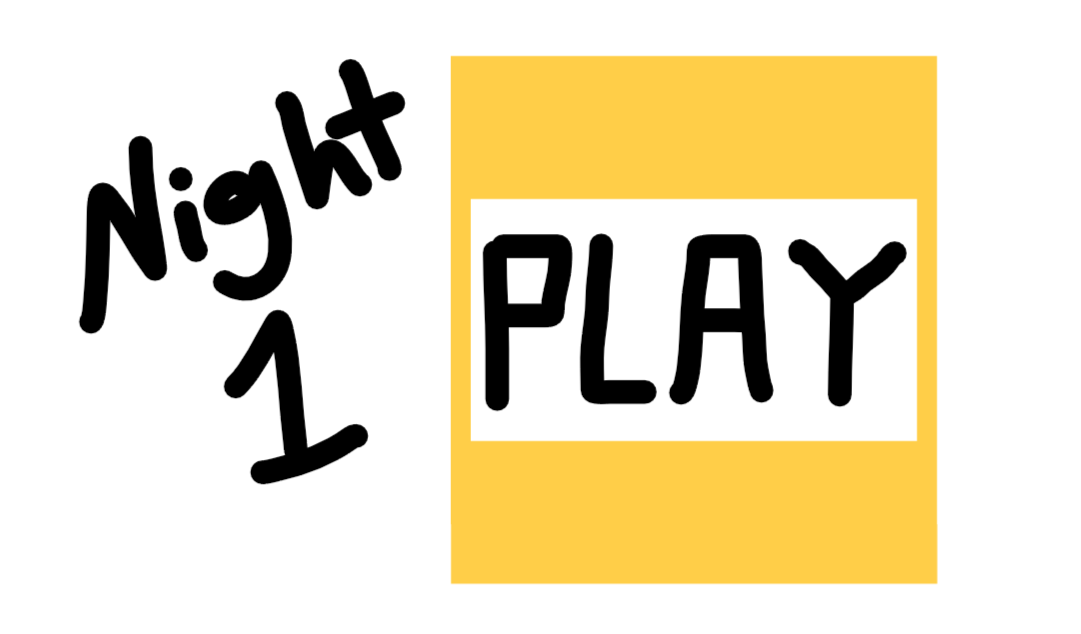
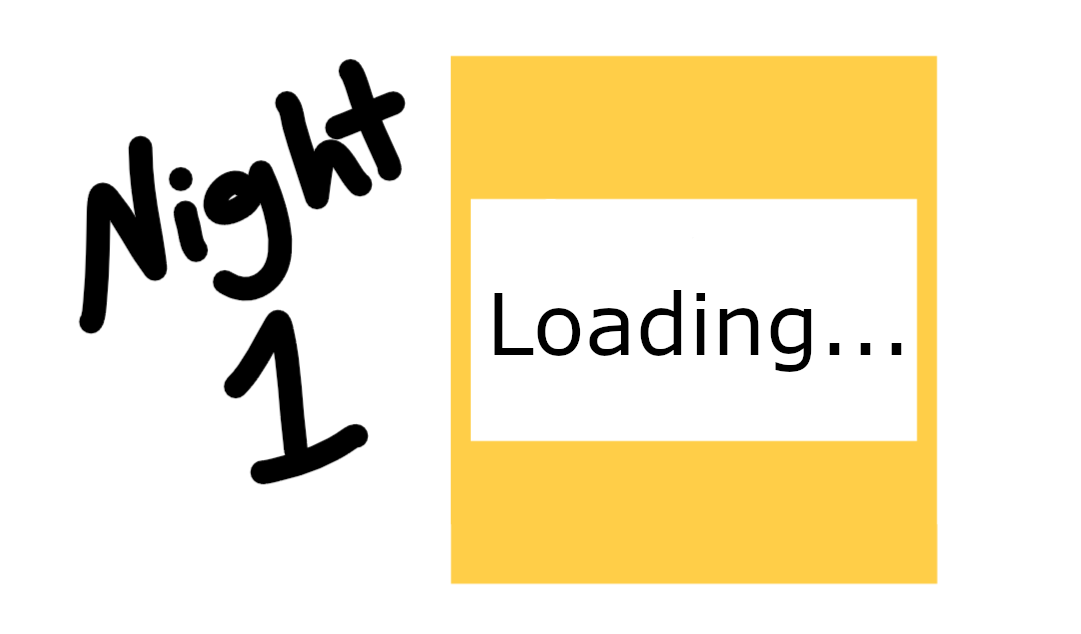
added new home/load screens

Changed region(s): [[0.4274, 0.3596, 0.8548, 0.6593]]

diff --git a/game.py b/game.py
@@ -19,47 +19,62 @@ pygame.display.set_caption("Power Outage")
 
 # Objects and backgrounds
 # home_night = night_select() # - commented out for now
-HOME_image = pygame.image.load(os.path.join('assets', 'PO_night1.PNG')).convert() #adding image ****this line will be changed, PO_night1.PNG will actually be night_select()****
-HOME = pygame.transform.scale(HOME_image, (WIDTH, HEIGHT)) #image resizing
+HOME_IMAGE = pygame.image.load(os.path.join('assets', 'PO_home_alpha.PNG')).convert() #adding image ****this line will be changed, PO_night1.PNG will actually be night_select()****
+HOME = pygame.transform.scale(HOME_IMAGE, (WIDTH, HEIGHT)) #image resizing
 
-LOAD_image = pygame.image.load(os.path.join('assets', 'dummy.jpg')).convert() #adding temp loading image
-LOAD = pygame.transform.scale(LOAD_image, (WIDTH, HEIGHT)) # resizing temp load image
+LOAD_IMAGE = pygame.image.load(os.path.join('assets', 'dummy.jpg')).convert() #adding temp loading image
+LOAD = pygame.transform.scale(LOAD_IMAGE, (WIDTH, HEIGHT)) # resizing temp load image
 
 PAUSE_MENU = pygame.image.load(os.path.join('assets', 'PO_pause_menu_beta.png')).convert_alpha()
 
-FIREPLACE_unlit_open_image = pygame.image.load(os.path.join('assets', 'PO_fireplace_unlit_open_beta.PNG')).convert() #adding image
-FIREPLACE_unlit_open = pygame.transform.scale(FIREPLACE_unlit_open_image, (WIDTH, HEIGHT)) #image resizing
-FIREPLACE_unlit_closed_image = pygame.image.load(os.path.join('assets', 'PO_fireplace_unlit_closed_beta.PNG')).convert() #adding image
-FIREPLACE_unlit_closed = pygame.transform.scale(FIREPLACE_unlit_closed_image, (WIDTH, HEIGHT)) #image resizing
-FIREPLACE_lit_open_image = pygame.image.load(os.path.join('assets', 'PO_fireplace_lit_open_beta.PNG')).convert() #adding image
-FIREPLACE_lit_open = pygame.transform.scale(FIREPLACE_lit_open_image, (WIDTH, HEIGHT)) #image resizing-----------------------------------------------------------
+NIGHT1_LOAD_IMAGE = pygame.image.load(os.path.join('assets','PO_night1.PNG')).convert()
+NIGHT1_LOAD = pygame.transform.scale(NIGHT1_LOAD_IMAGE, (WIDTH, HEIGHT))
+NIGHT2_LOAD_IMAGE = pygame.image.load(os.path.join('assets','PO_night2.PNG')).convert()
+NIGHT2_LOAD = pygame.transform.scale(NIGHT2_LOAD_IMAGE, (WIDTH, HEIGHT))
+NIGHT3_LOAD_IMAGE = pygame.image.load(os.path.join('assets','PO_night3.PNG')).convert()
+NIGHT3_LOAD = pygame.transform.scale(NIGHT3_LOAD_IMAGE, (WIDTH, HEIGHT))
+NIGHT4_LOAD_IMAGE = pygame.image.load(os.path.join('assets','PO_night4.PNG')).convert()
+NIGHT4_LOAD = pygame.transform.scale(NIGHT4_LOAD_IMAGE, (WIDTH, HEIGHT))
+NIGHT5_LOAD_IMAGE = pygame.image.load(os.path.join('assets','PO_night5.PNG')).convert()
+NIGHT5_LOAD = pygame.transform.scale(NIGHT5_LOAD_IMAGE, (WIDTH, HEIGHT))
+NIGHT6_LOAD_IMAGE = pygame.image.load(os.path.join('assets','PO_night6.PNG')).convert()
+NIGHT6_LOAD = pygame.transform.scale(NIGHT6_LOAD_IMAGE, (WIDTH, HEIGHT))
+NIGHT7_LOAD_IMAGE = pygame.image.load(os.path.join('assets','PO_night7.PNG')).convert()
+NIGHT7_LOAD = pygame.transform.scale(NIGHT7_LOAD_IMAGE, (WIDTH, HEIGHT))
 
-BUNKER_image = pygame.image.load(os.path.join('assets', 'PO_bunker_beta.PNG')).convert() #adding image
-BUNKER = pygame.transform.scale(BUNKER_image, (WIDTH, HEIGHT)) #image resizing
-BUNKER_held_image = pygame.image.load(os.path.join('assets', 'PO_bunker_held_beta.PNG')).convert() #adding image
-BUNKER_held = pygame.transform.scale(BUNKER_held_image, (WIDTH, HEIGHT)) #image resizing
+FIREPLACE_UNLIT_OPEN_IMAGE = pygame.image.load(os.path.join('assets', 'PO_fireplace_unlit_open_beta.PNG')).convert() #adding image
+FIREPLACE_UNLIT_OPEN = pygame.transform.scale(FIREPLACE_UNLIT_OPEN_IMAGE, (WIDTH, HEIGHT)) #image resizing
+FIREPLACE_UNLIT_CLOSED_IMAGE = pygame.image.load(os.path.join('assets', 'PO_fireplace_unlit_closed_beta.PNG')).convert() #adding image
+FIREPLACE_UNLIT_CLOSED = pygame.transform.scale(FIREPLACE_UNLIT_CLOSED_IMAGE, (WIDTH, HEIGHT)) #image resizing
+FIREPLACE_LIT_OPEN_IMAGE = pygame.image.load(os.path.join('assets', 'PO_fireplace_lit_open_beta.PNG')).convert() #adding image
+FIREPLACE_LIT_OPEN = pygame.transform.scale(FIREPLACE_LIT_OPEN_IMAGE, (WIDTH, HEIGHT)) #image resizing-----------------------------------------------------------
 
-DOOR_image = pygame.image.load(os.path.join('assets', 'PO_door_beta.PNG')).convert() #adding image
-DOOR = pygame.transform.scale(DOOR_image, (WIDTH, HEIGHT)) #image resizing
-DOOR_locked1_image = pygame.image.load(os.path.join('assets', 'PO_door_locked1_beta.PNG')).convert() #adding image
-DOOR_locked1 = pygame.transform.scale(DOOR_locked1_image, (WIDTH, HEIGHT)) #image resizing
-DOOR_locked2_image = pygame.image.load(os.path.join('assets', 'PO_door_locked2_beta.PNG')).convert() #adding image
-DOOR_locked2 = pygame.transform.scale(DOOR_locked2_image, (WIDTH, HEIGHT)) #image resizing
-DOOR_locked3_image = pygame.image.load(os.path.join('assets', 'PO_door_locked3_beta.PNG')).convert() #adding image
-DOOR_locked3 = pygame.transform.scale(DOOR_locked3_image, (WIDTH, HEIGHT)) #image resizing
-DOOR_locked4_image = pygame.image.load(os.path.join('assets', 'PO_door_locked4_beta.PNG')).convert() #adding image
-DOOR_locked4 = pygame.transform.scale(DOOR_locked4_image, (WIDTH, HEIGHT)) #image resizing
-DOOR_unlocked_image = pygame.image.load(os.path.join('assets', 'PO_door_unlocked_beta.PNG')).convert() #adding image
-DOOR_unlocked = pygame.transform.scale(DOOR_unlocked_image, (WIDTH, HEIGHT)) #image resizing
+BUNKER_IMAGE = pygame.image.load(os.path.join('assets', 'PO_bunker_beta.PNG')).convert() #adding image
+BUNKER = pygame.transform.scale(BUNKER_IMAGE, (WIDTH, HEIGHT)) #image resizing
+BUNKER_HELD_IMAGE = pygame.image.load(os.path.join('assets', 'PO_bunker_held_beta.PNG')).convert() #adding image
+BUNKER_HELD = pygame.transform.scale(BUNKER_HELD_IMAGE, (WIDTH, HEIGHT)) #image resizing
 
-WINDOW_locked1_image = pygame.image.load(os.path.join('assets', 'PO_window_locked1_beta.PNG')).convert() #adding image
-WINDOW_locked1 = pygame.transform.scale(WINDOW_locked1_image, (WIDTH, HEIGHT)) #image resizing
-WINDOW_locked2_image = pygame.image.load(os.path.join('assets', 'PO_window_locked2_beta.PNG')).convert() #adding image
-WINDOW_locked2 = pygame.transform.scale(WINDOW_locked2_image, (WIDTH, HEIGHT)) #image resizing
-WINDOW_locked3_image = pygame.image.load(os.path.join('assets', 'PO_window_locked3_beta.PNG')).convert() #adding image
-WINDOW_locked3 = pygame.transform.scale(WINDOW_locked3_image, (WIDTH, HEIGHT)) #image resizing
-WINDOW_unlocked_image = pygame.image.load(os.path.join('assets', 'PO_window_unlocked_beta.PNG')).convert() #adding image
-WINDOW_unlocked = pygame.transform.scale(WINDOW_unlocked_image, (WIDTH, HEIGHT)) #image resizingg
+DOOR_IMAGE = pygame.image.load(os.path.join('assets', 'PO_door_beta.PNG')).convert() #adding image
+DOOR = pygame.transform.scale(DOOR_IMAGE, (WIDTH, HEIGHT)) #image resizing
+DOOR_LOCKED1_IMAGE = pygame.image.load(os.path.join('assets', 'PO_door_locked1_beta.PNG')).convert() #adding image
+DOOR_LOCKED1 = pygame.transform.scale(DOOR_LOCKED1_IMAGE, (WIDTH, HEIGHT)) #image resizing
+DOOR_LOCKED2_IMAGE = pygame.image.load(os.path.join('assets', 'PO_door_locked2_beta.PNG')).convert() #adding image
+DOOR_LOCKED2 = pygame.transform.scale(DOOR_LOCKED2_IMAGE, (WIDTH, HEIGHT)) #image resizing
+DOOR_LOCKED3_IMAGE = pygame.image.load(os.path.join('assets', 'PO_door_locked3_beta.PNG')).convert() #adding image
+DOOR_LOCKED3 = pygame.transform.scale(DOOR_LOCKED3_IMAGE, (WIDTH, HEIGHT)) #image resizing
+DOOR_LOCKED4_IMAGE = pygame.image.load(os.path.join('assets', 'PO_door_locked4_beta.PNG')).convert() #adding image
+DOOR_LOCKED4 = pygame.transform.scale(DOOR_LOCKED4_IMAGE, (WIDTH, HEIGHT)) #image resizing
+DOOR_UNLOCKED_IMAGE = pygame.image.load(os.path.join('assets', 'PO_door_unlocked_beta.PNG')).convert() #adding image
+DOOR_UNLOCKED = pygame.transform.scale(DOOR_UNLOCKED_IMAGE, (WIDTH, HEIGHT)) #image resizing
+
+WINDOW_LOCKED1_IMAGE = pygame.image.load(os.path.join('assets', 'PO_window_locked1_beta.PNG')).convert() #adding image
+WINDOW_LOCKED1 = pygame.transform.scale(WINDOW_LOCKED1_IMAGE, (WIDTH, HEIGHT)) #image resizing
+WINDOW_LOCKED2_IMAGE = pygame.image.load(os.path.join('assets', 'PO_window_locked2_beta.PNG')).convert() #adding image
+WINDOW_LOCKED2 = pygame.transform.scale(WINDOW_LOCKED2_IMAGE, (WIDTH, HEIGHT)) #image resizing
+WINDOW_LOCKED3_IMAGE = pygame.image.load(os.path.join('assets', 'PO_window_locked3_beta.PNG')).convert() #adding image
+WINDOW_LOCKED3 = pygame.transform.scale(WINDOW_LOCKED3_IMAGE, (WIDTH, HEIGHT)) #image resizing
+WINDOW_UNLOCKED_IMAGE = pygame.image.load(os.path.join('assets', 'PO_window_unlocked_beta.PNG')).convert() #adding image
+WINDOW_UNLOCKED = pygame.transform.scale(WINDOW_UNLOCKED_IMAGE, (WIDTH, HEIGHT)) #image resizingg
 
 #---------Home Screen Startup control logic and night passing logic---------- Temporarily commented out
 # def night_select():
@@ -177,34 +192,39 @@ def draw_image(states: States):
         WIN.blit(HOME, (0, 0)) #display home image
     
     elif states.view == "Game-load":
-        # here we add an if statement that checks what night we are loading into
-        WIN.blit(LOAD, (0, 0)) # temporary
+        if states.night == '1': WIN.blit(NIGHT1_LOAD, (0,0))
+        elif states.night == '2': WIN.blit(NIGHT2_LOAD, (0,0))
+        elif states.night == '3': WIN.blit(NIGHT3_LOAD, (0,0))
+        elif states.night == '4': WIN.blit(NIGHT4_LOAD, (0,0))
+        elif states.night == '5': WIN.blit(NIGHT5_LOAD, (0,0))
+        elif states.night == '6': WIN.blit(NIGHT6_LOAD, (0,0))
+        elif states.night == '7': WIN.blit(NIGHT7_LOAD, (0,0))
 
     elif states.view == "Fireplace":
         # if statements that look at the fireplace's state and determine what image to show
-        if states.damper and not states.fire: WIN.blit(FIREPLACE_unlit_closed, (0,0)) #display unlit closed damper fireplace
-        elif not states.damper and not states.fire: WIN.blit(FIREPLACE_unlit_open, (0,0)) #display unlit open damper fireplace
-        else: WIN.blit(FIREPLACE_lit_open, (0,0)) #display lit open damper fireplace
+        if states.damper and not states.fire: WIN.blit(FIREPLACE_UNLIT_CLOSED, (0,0)) #display unlit closed damper fireplace
+        elif not states.damper and not states.fire: WIN.blit(FIREPLACE_UNLIT_OPEN, (0,0)) #display unlit open damper fireplace
+        else: WIN.blit(FIREPLACE_LIT_OPEN, (0,0)) #display lit open damper fireplace
         
     elif states.view == "Window":
         # here we add if statements that looks at the window's state and determines what image to show
-        if states.window_phase == 1: WIN.blit(WINDOW_locked1, (0, 0)) #display fully locked window phase (phase = 1)
-        elif states.window_phase == 2: WIN.blit(WINDOW_locked2, (0,0)) #display second phase locked window (phase = 2)
-        elif states.window_phase == 3: WIN.blit(WINDOW_locked3, (0,0)) #display third phase locked window (phase = 3)
-        elif states.window_phase == 4: WIN.blit(WINDOW_unlocked, (0,0)) #display window unlocked (phase = 4)
+        if states.window_phase == 1: WIN.blit(WINDOW_LOCKED1, (0, 0)) #display fully locked window phase (phase = 1)
+        elif states.window_phase == 2: WIN.blit(WINDOW_LOCKED2, (0,0)) #display second phase locked window (phase = 2)
+        elif states.window_phase == 3: WIN.blit(WINDOW_LOCKED3, (0,0)) #display third phase locked window (phase = 3)
+        elif states.window_phase == 4: WIN.blit(WINDOW_UNLOCKED, (0,0)) #display window unlocked (phase = 4)
 
     elif states.view == "Door": WIN.blit(DOOR, (0,0)) #display Frontdoor image
 
     elif states.view == 'Door-lock': 
-        if states.door_phase == 1:  WIN.blit(DOOR_locked1, (0,0)) #display fully locked door phase (phase = 1)
-        elif states.door_phase == 2: WIN.blit(DOOR_locked2, (0,0)) #display second phase locked door (phase = 2)
-        elif states.door_phase == 3: WIN.blit(DOOR_locked3, (0,0)) #display third phase locked door (phase = 3)
-        elif states.door_phase == 4: WIN.blit(DOOR_locked4, (0,0)) #display Fourth phase locked door (phase = 4)
-        elif states.door_phase == 5: WIN.blit(DOOR_unlocked, (0,0)) #display unlocked door (phase = 5)
+        if states.door_phase == 1:  WIN.blit(DOOR_LOCKED1, (0,0)) #display fully locked door phase (phase = 1)
+        elif states.door_phase == 2: WIN.blit(DOOR_LOCKED2, (0,0)) #display second phase locked door (phase = 2)
+        elif states.door_phase == 3: WIN.blit(DOOR_LOCKED3, (0,0)) #display third phase locked door (phase = 3)
+        elif states.door_phase == 4: WIN.blit(DOOR_LOCKED4, (0,0)) #display Fourth phase locked door (phase = 4)
+        elif states.door_phase == 5: WIN.blit(DOOR_UNLOCKED, (0,0)) #display unlocked door (phase = 5)
     
     elif states.view == "Bunker":
         if not states.holding: WIN.blit(BUNKER, (0,0)) #display Bunker image
-        else: WIN.blit(BUNKER_held, (0,0)) #display bunker held closed image
+        else: WIN.blit(BUNKER_HELD, (0,0)) #display bunker held closed image
 
     if states.paused:
         # note: this part needs to be at the bottom so that the pause menu will overlay everything else
@@ -223,7 +243,7 @@ def main():
     
     # Dictionary containing all of the Rect objects to be used in the game
     rects = {
-        'START_BUTTON': pygame.Rect((378, 46), (402, 414)),
+        'START_BUTTON': pygame.Rect((125, 203), (625, 59)),
         'LOG': pygame.Rect((343, 157), (92, 18)),
         'DAMPER': pygame.Rect((325, 125), (10, 24)),
         'FP_RIGHT': pygame.Rect((831, 33), (44, 404)),
@@ -274,7 +294,6 @@ def main():
             if states.playing: # all events that we only want to process while the game is being played (aka not paused)
                 if event.type == sec_timer: 
                     # anything in here will occur once for every second of playtime
-                    print('jiggle_countdown:', states.jiggle_countdown)
                     states.num_seconds += 1
                     states.jiggle_countdown -= 1
             

diff --git a/objects.py b/objects.py
@@ -1,4 +1,3 @@
-from curses import window
 import random
 
 # Function which calculates a valid jiggletime based on the inputted night
@@ -52,7 +51,6 @@ class States:
         self.jiggle_time = jiggle_time
 
         self.jiggle_countdown = jiggle_time
-
 
 # class Fireplace:
 #     def __init__(self, day):
